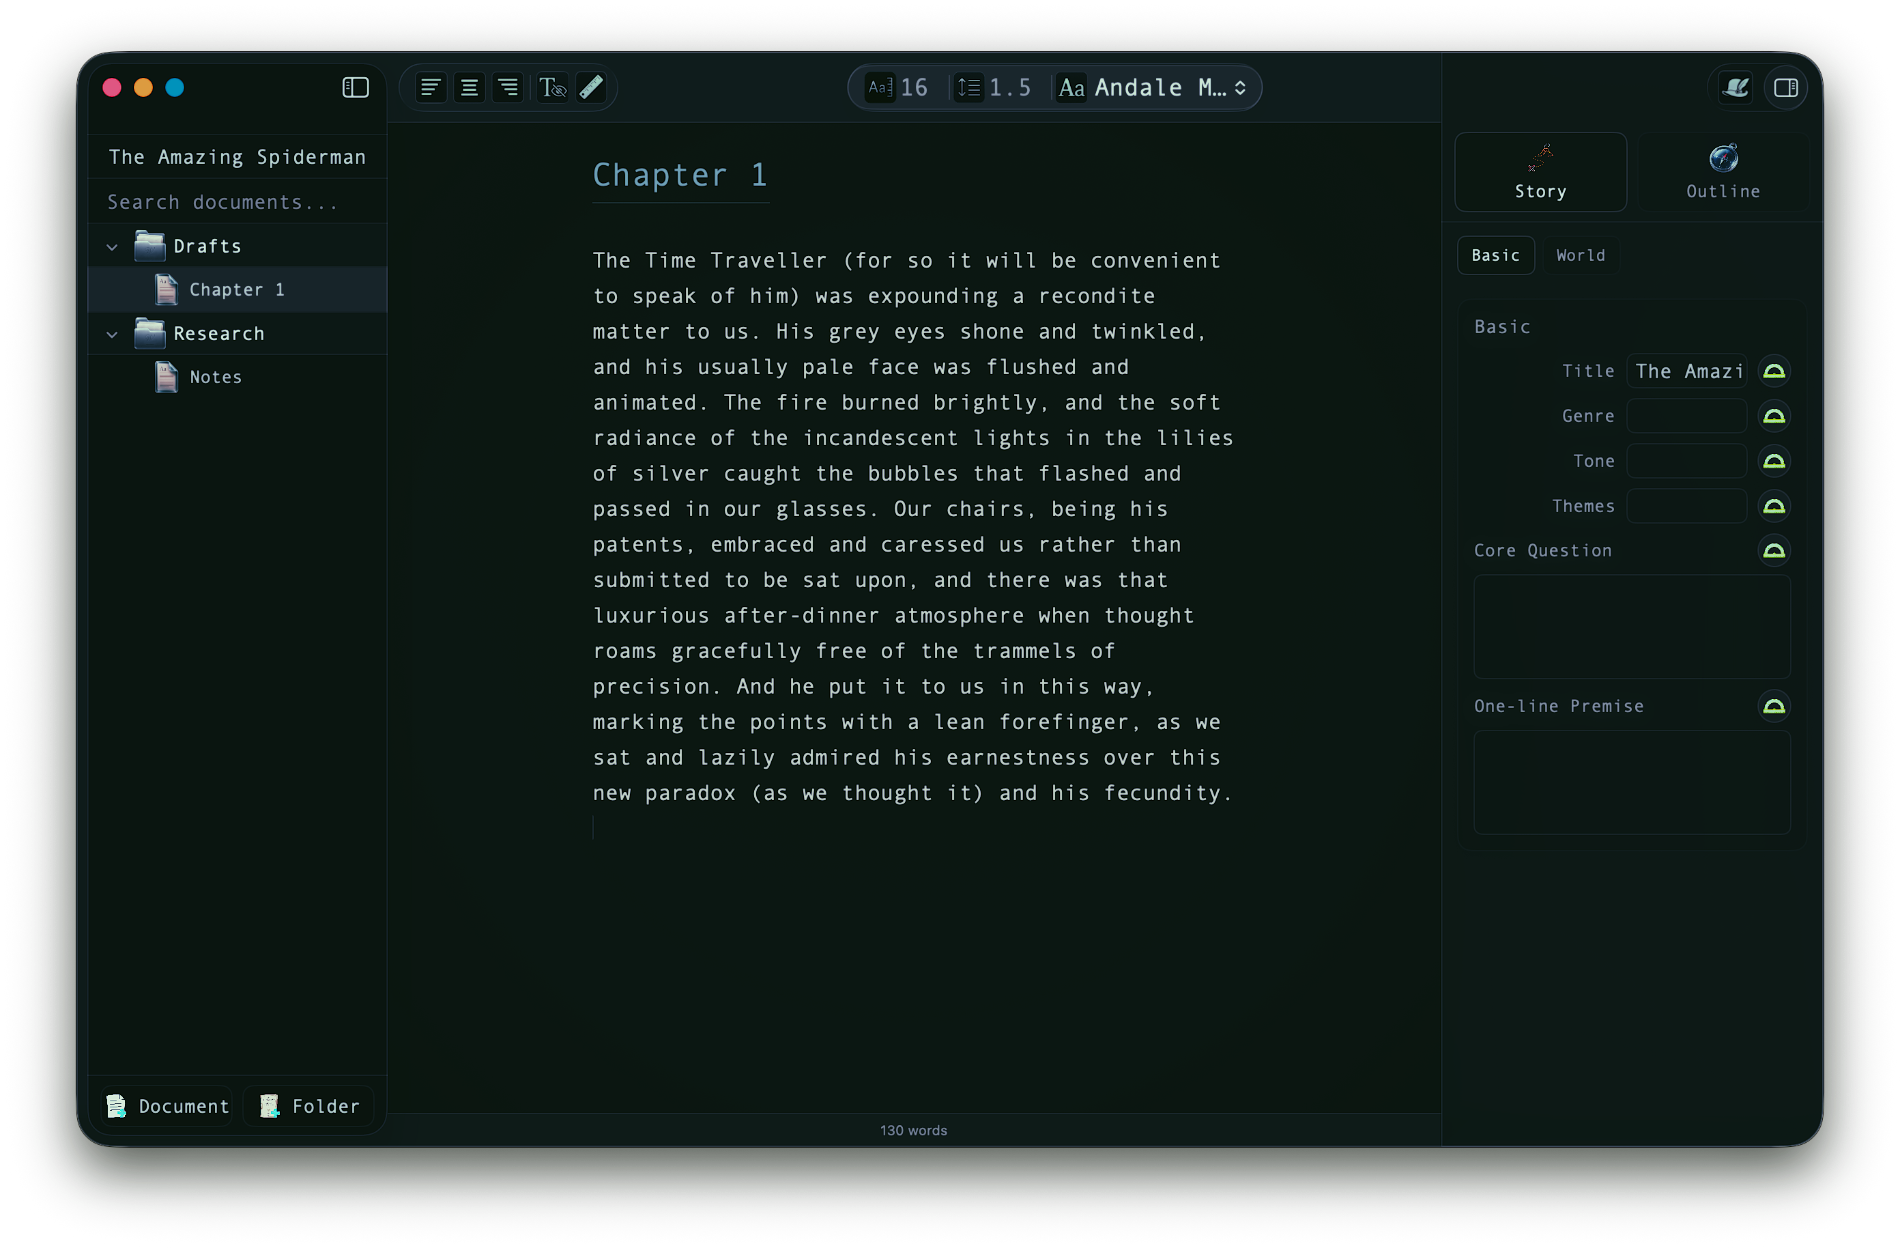
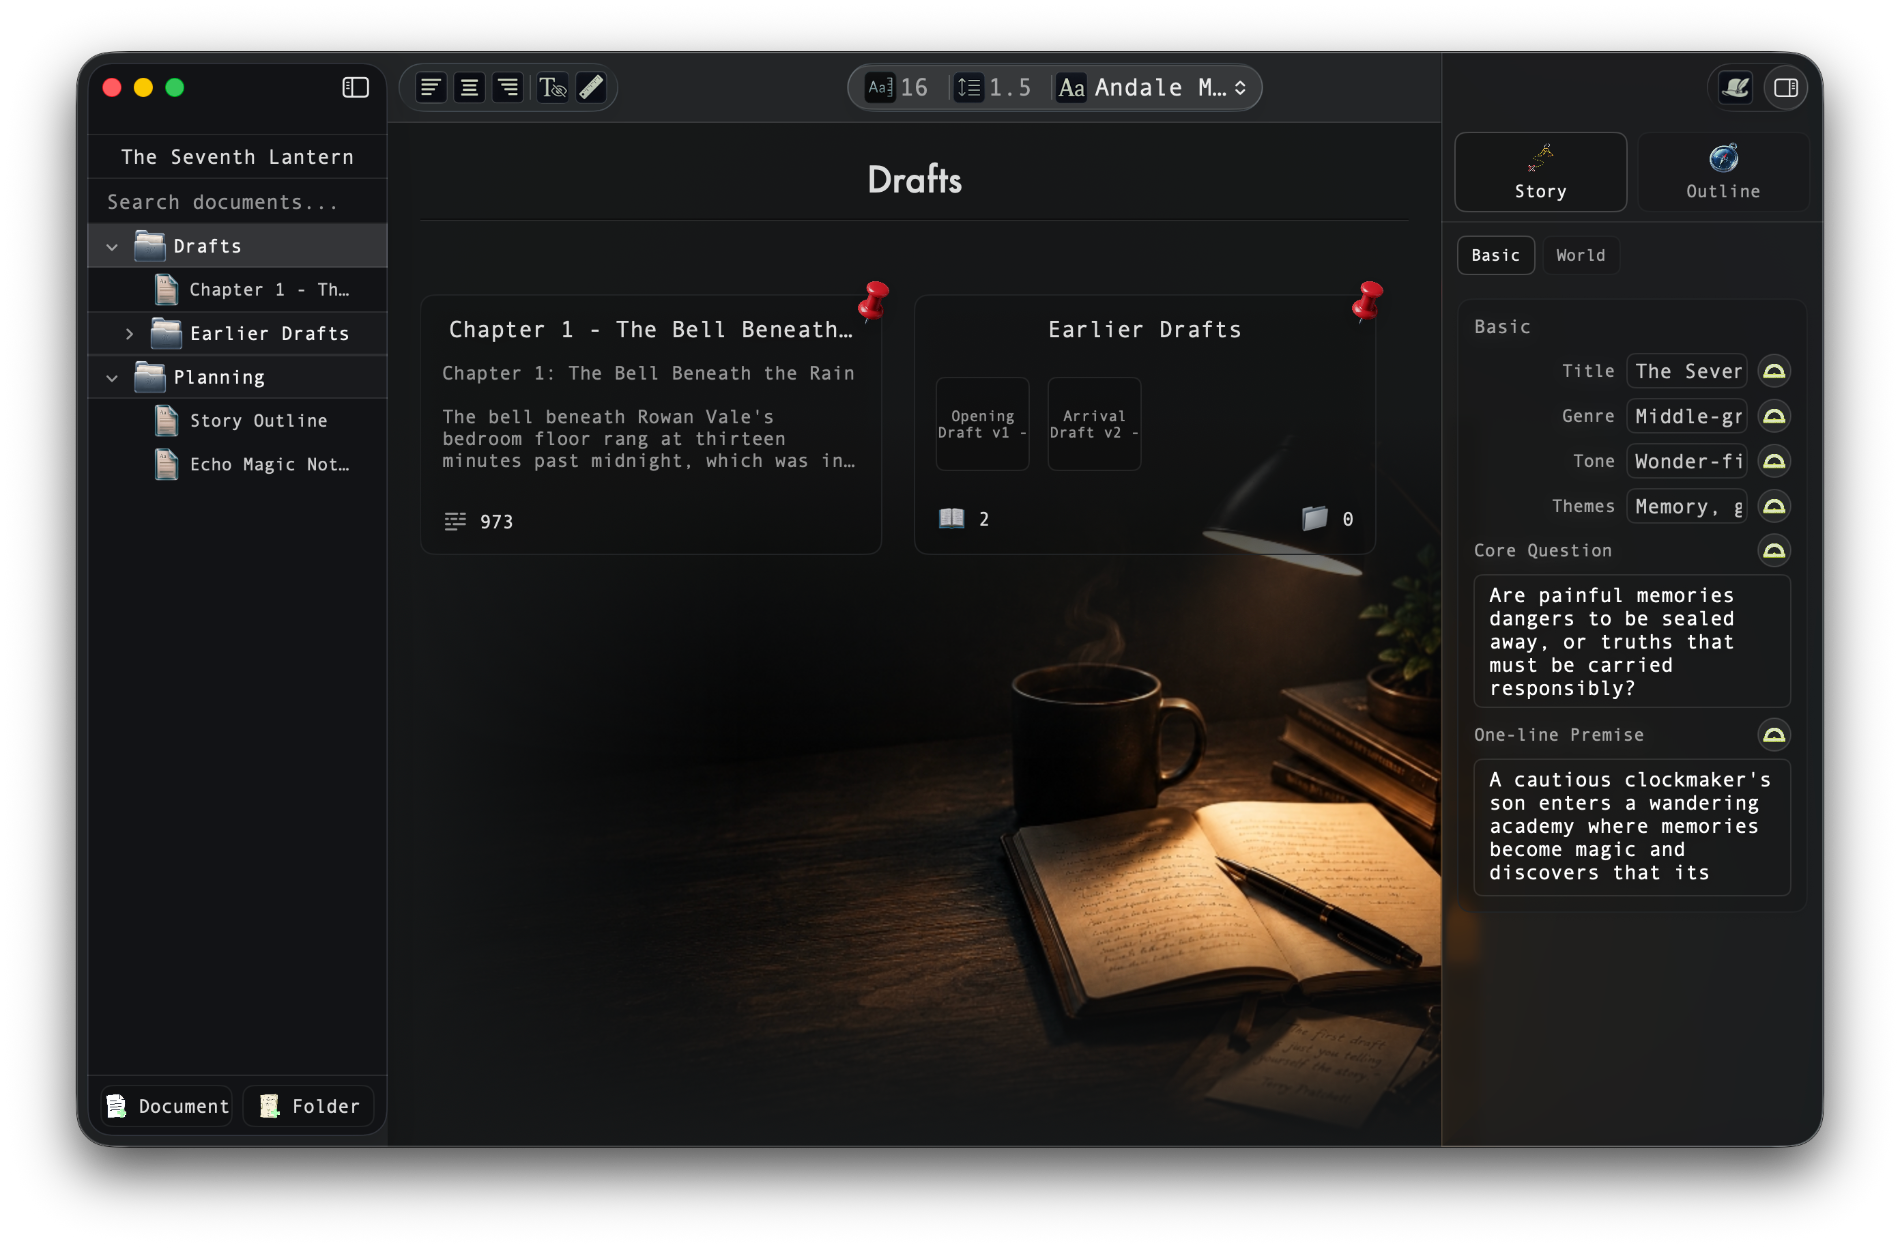
Better iage

diff --git a/styles.css b/styles.css
@@ -106,7 +106,7 @@ main {
 
 h1 {
   margin: 0;
-  color: #9be27a;
+  color: #d9dfdc;
   font-family: Futura, "Futura PT", "Century Gothic", sans-serif;
   font-size: clamp(2.25rem, 7vw, 5rem);
   font-weight: 500;